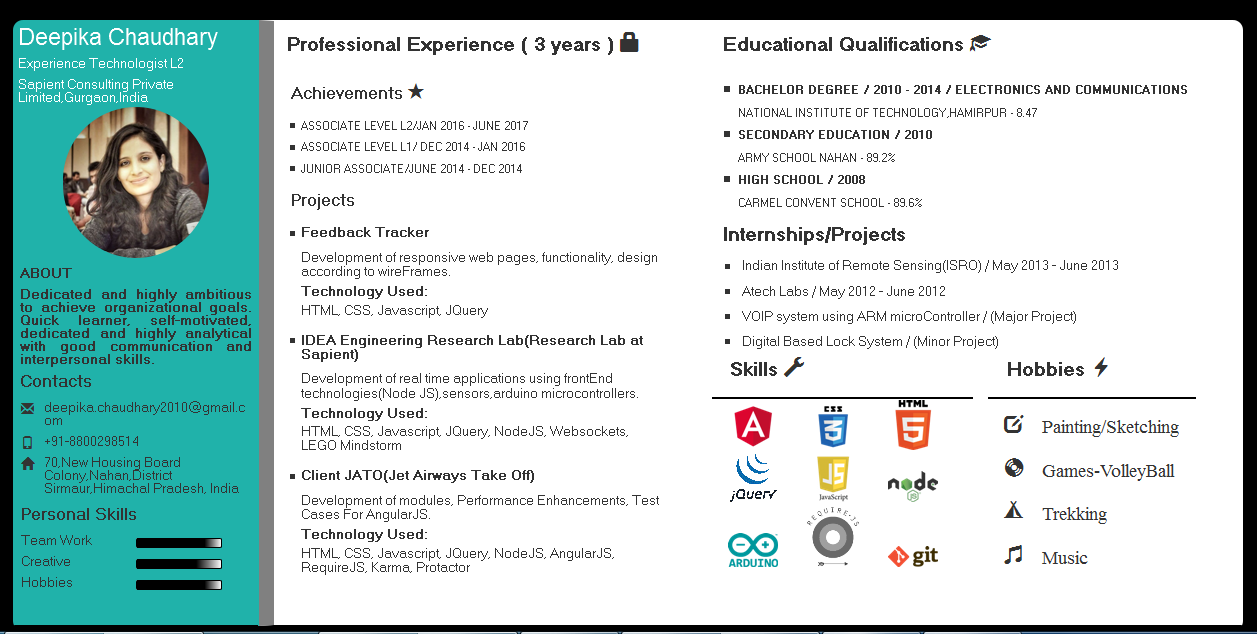
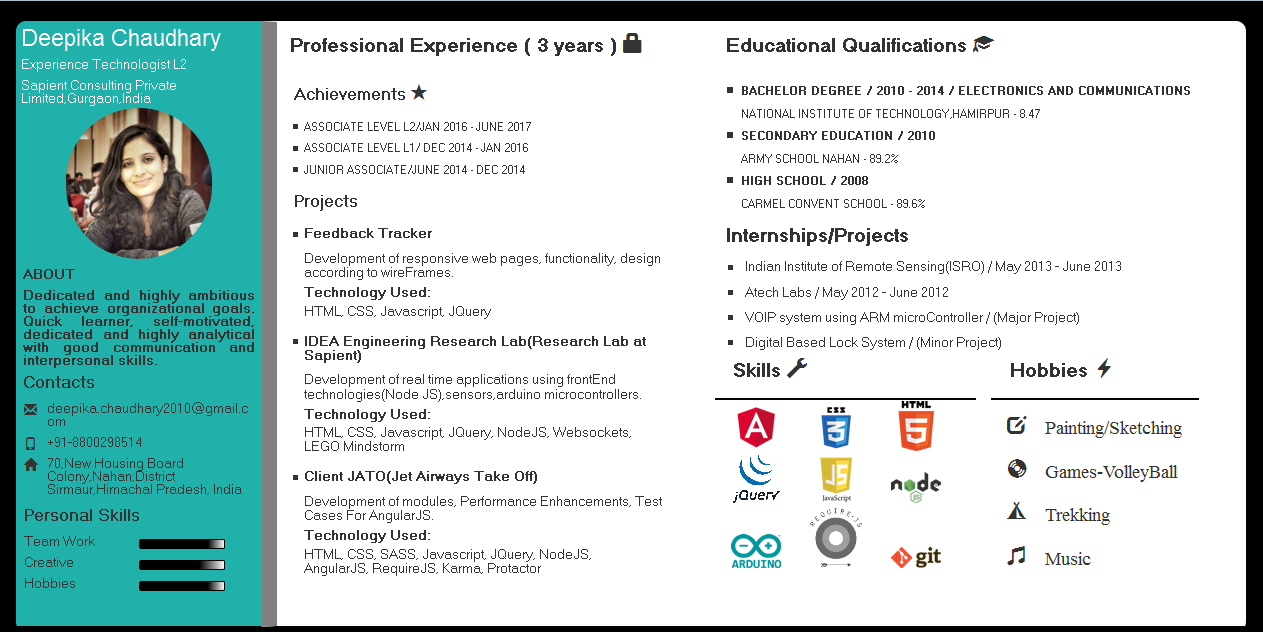
images removed

diff --git a/app/modules/home/controllers.js b/app/modules/home/controllers.js
@@ -54,7 +54,7 @@ controller('homeController',['$scope',function($scope){
          {
         	name : 'Client JATO(Jet Airways Take Off)',
         	Role : 'UI Developer',
-        	Technology : 'HTML, CSS, Javascript, JQuery, NodeJS, AngularJS, RequireJS, Karma, Protactor',
+        	Technology : 'HTML, CSS, SASS, Javascript, JQuery, NodeJS, AngularJS, RequireJS, Karma, Protactor',
         	Responsibility : 'Development of modules, Performance Enhancements, Test Cases For AngularJS.'
         }],
         hobbies:[{
